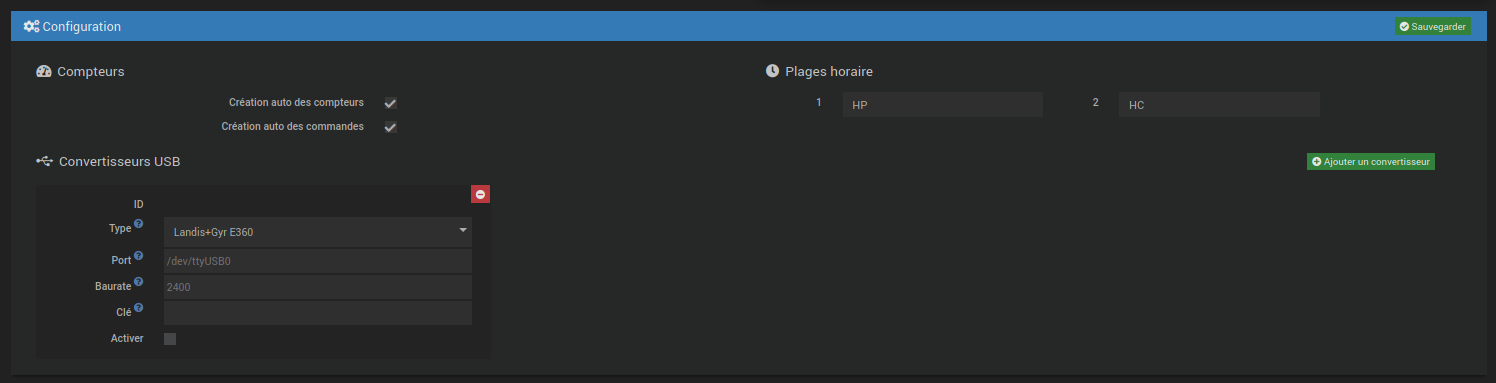
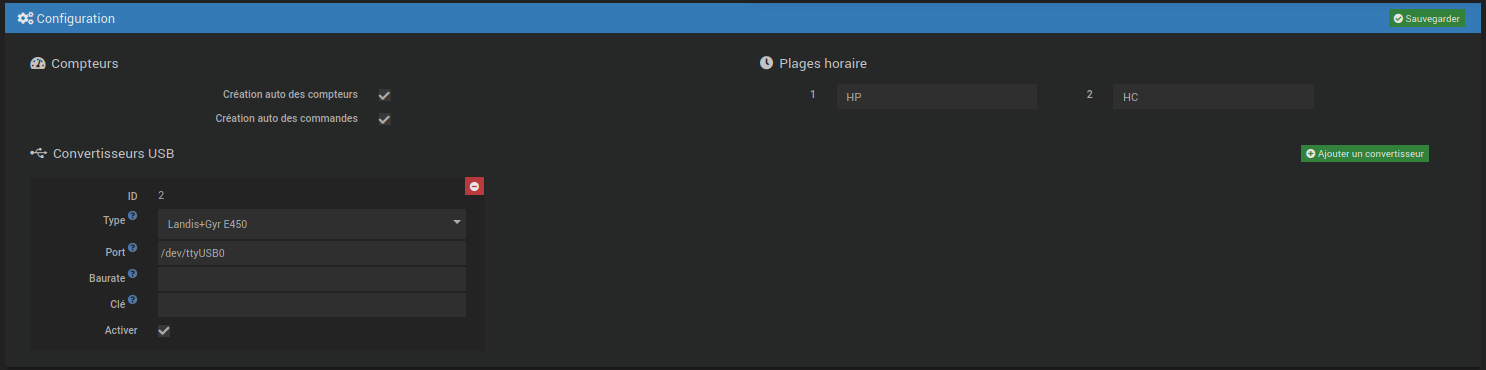
...

diff --git a/fr_FR/SmartMeterUSB/index.md b/fr_FR/SmartMeterUSB/index.md
@@ -116,19 +116,21 @@ Cliquer sur le bouton `Ajouter un convertisseur`
 
 ![Configuration convertisseur]({{ imagesPath }}/configuration_convertisseur.png)
 
-+ Sélectionner le type de compteur
-+ Saisir le device USB
-+ ...
-+ (Re)lancer le démon
++ Sélectionner le type de compteur.
++ Saisir le device USB.
++ Laisser *baurate* vide pour que le démon utilise sa valeur par défaut.
++ Saisir la clé d'encriptage si votre founisseur a configuré l'encription des informations.
+  (vous devez demander à votre fournisseur de vous communiquer cette clé).
++ (Re)lancer le démon.
 
 # Création des équipements *Compteurs* et de leurs commandes
 {: .num}
 
-Si l'option *Création auto des compteur* du plugin est désactivée, les compteurs
+Si l'option *Création auto des compteurs* du plugin est désactivée, les compteurs
 devront être créés manuellement. Cette création manuel est réservée au experts.
 
 Un compteur est créé automatiquement lorsque le brocker MQTT transmet une mesure
-avec un n° de compteur pour lequel il n'a a pas d'équipement Jeedom.
+avec un n° de compteur pour lequel il n'y a pas d'équipement Jeedom.
 
 Une fois le compteur créé, vous pouvez:
 + Modifier son nom et tout les paramètres standard des équipements Jeedom
@@ -138,5 +140,5 @@ Une fois le compteur créé, vous pouvez:
 > :warning: Ne pas modifier le Numéro du compteur. Ce numéro permet d'identifier l'équipement
   lors de la réception de mesure.
 
-Une fois l'équipement activé, les commande seront créées au rythme des messages reçus du
+Une fois l'équipement activé, les commandes seront créées au rythme des messages reçus du
 brocker MQTT.
